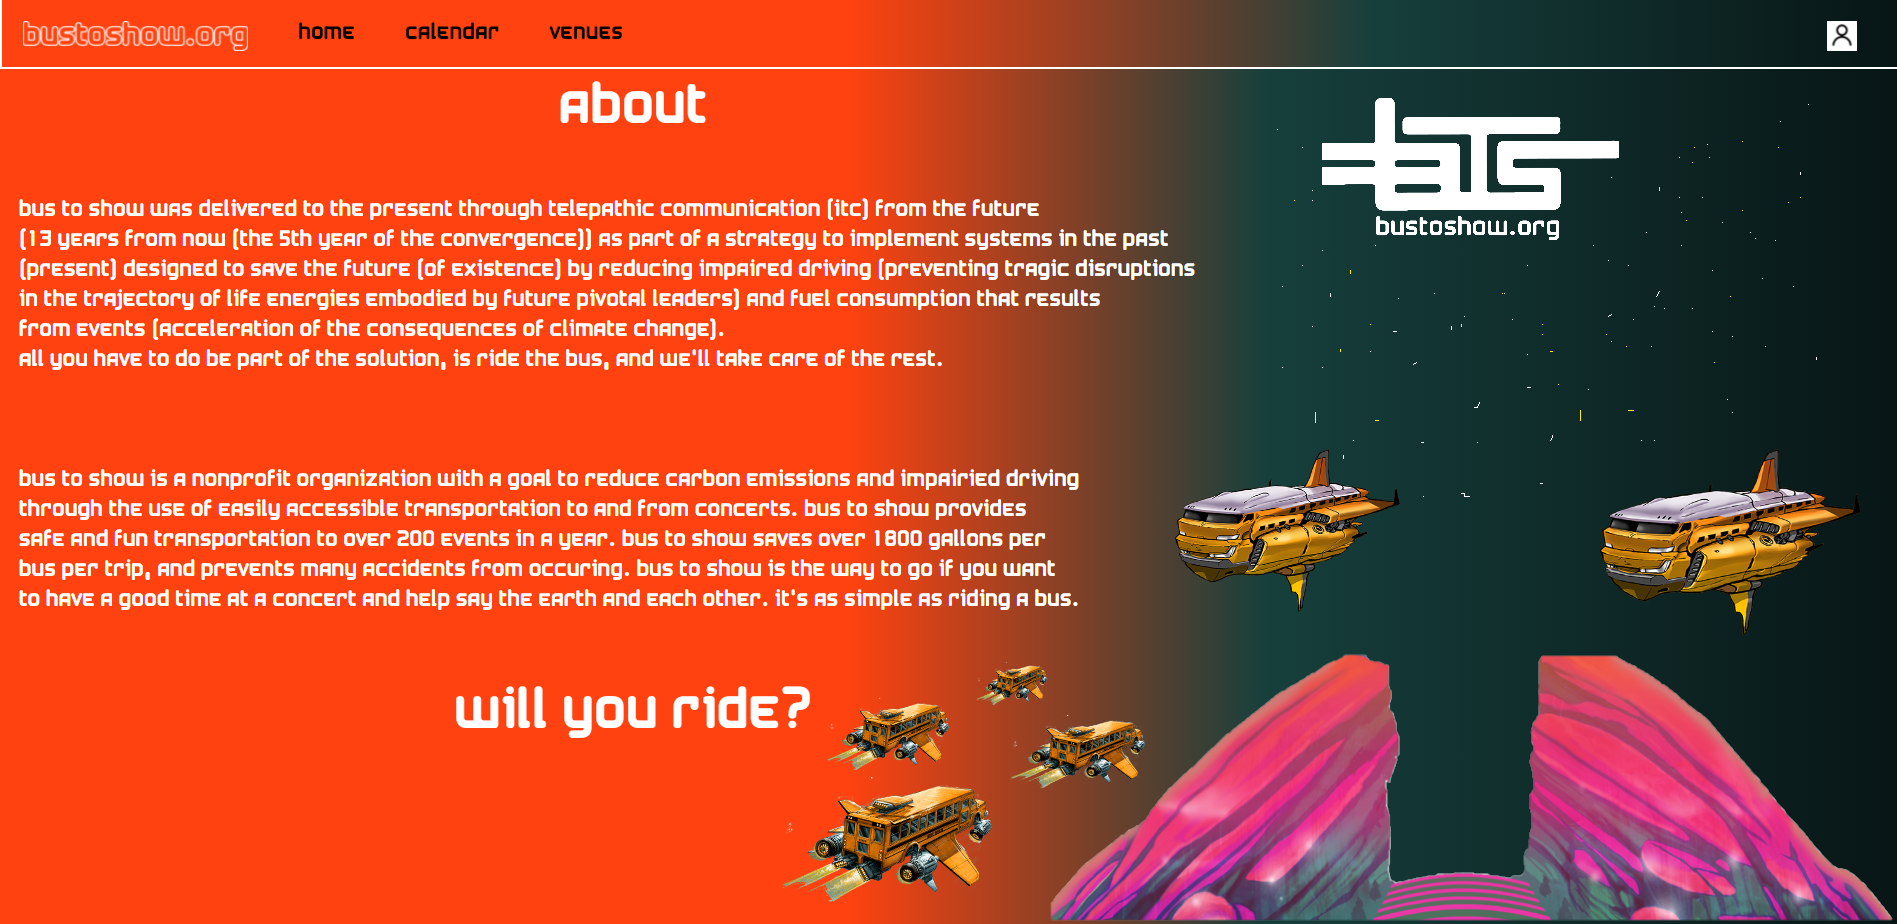
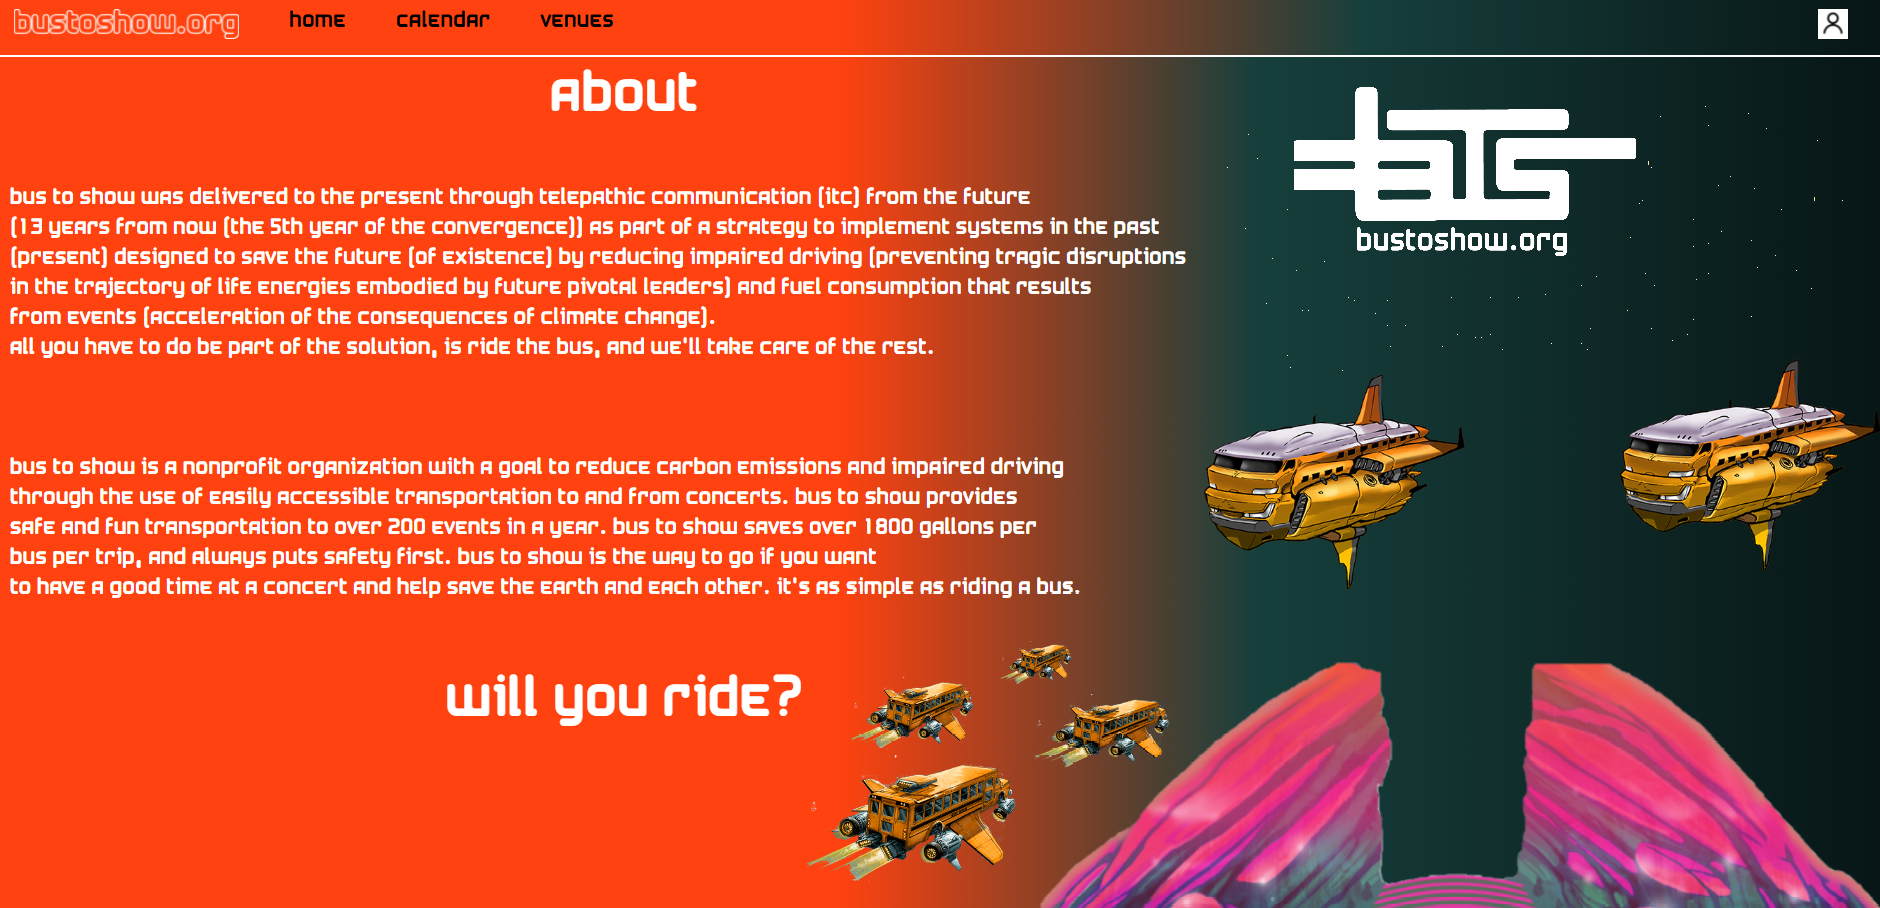
small change to wording of paragraph

diff --git a/designFinal.html b/designFinal.html
@@ -66,11 +66,11 @@
             <br>
             <br>
             <br>
-            <br>Bus To Show is a nonprofit organization with a goal to reduce carbon emissions and impairied driving
+            <br>Bus To Show is a nonprofit organization with a goal to reduce carbon emissions and impaired driving
             <br>through the use of easily accessible transportation to and from concerts. Bus To Show provides
             <br>safe and fun transportation to over 200 events in a year. Bus To Show saves over 1800 gallons per
-            <br>bus per trip, and prevents many accidents from occuring. Bus To Show is the way to go if you want
-            <br>to have a good time at a concert and help say the earth and each other. It's as simple as riding a bus.
+            <br>bus per trip, and always puts safety first. Bus To Show is the way to go if you want
+            <br>to have a good time at a concert and help save the earth and each other. It's as simple as riding a bus.
             <br>
             <br>
             <br>
